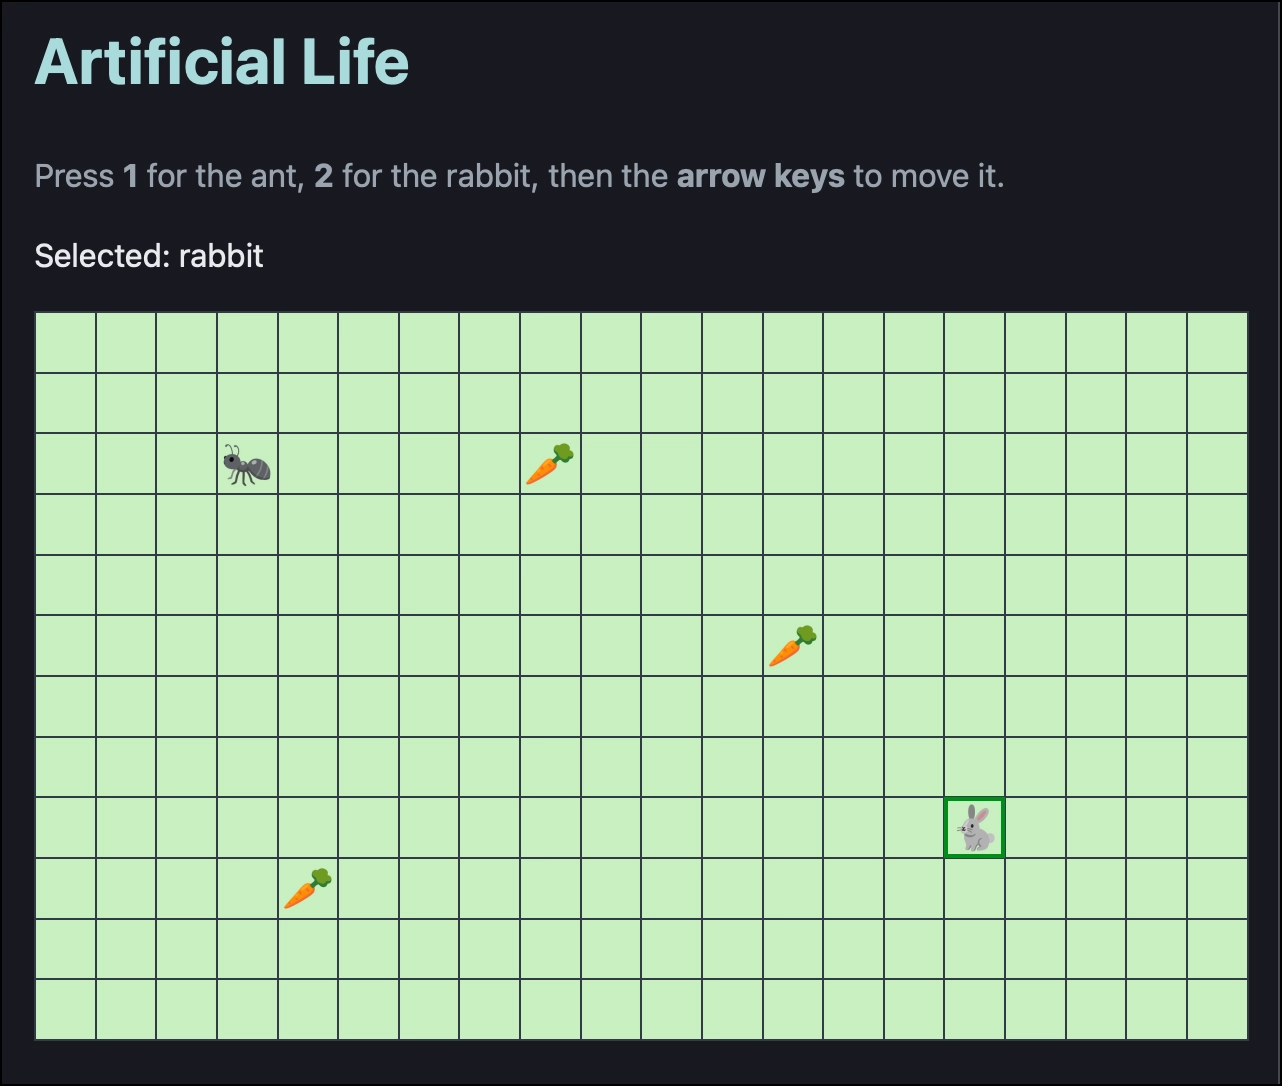
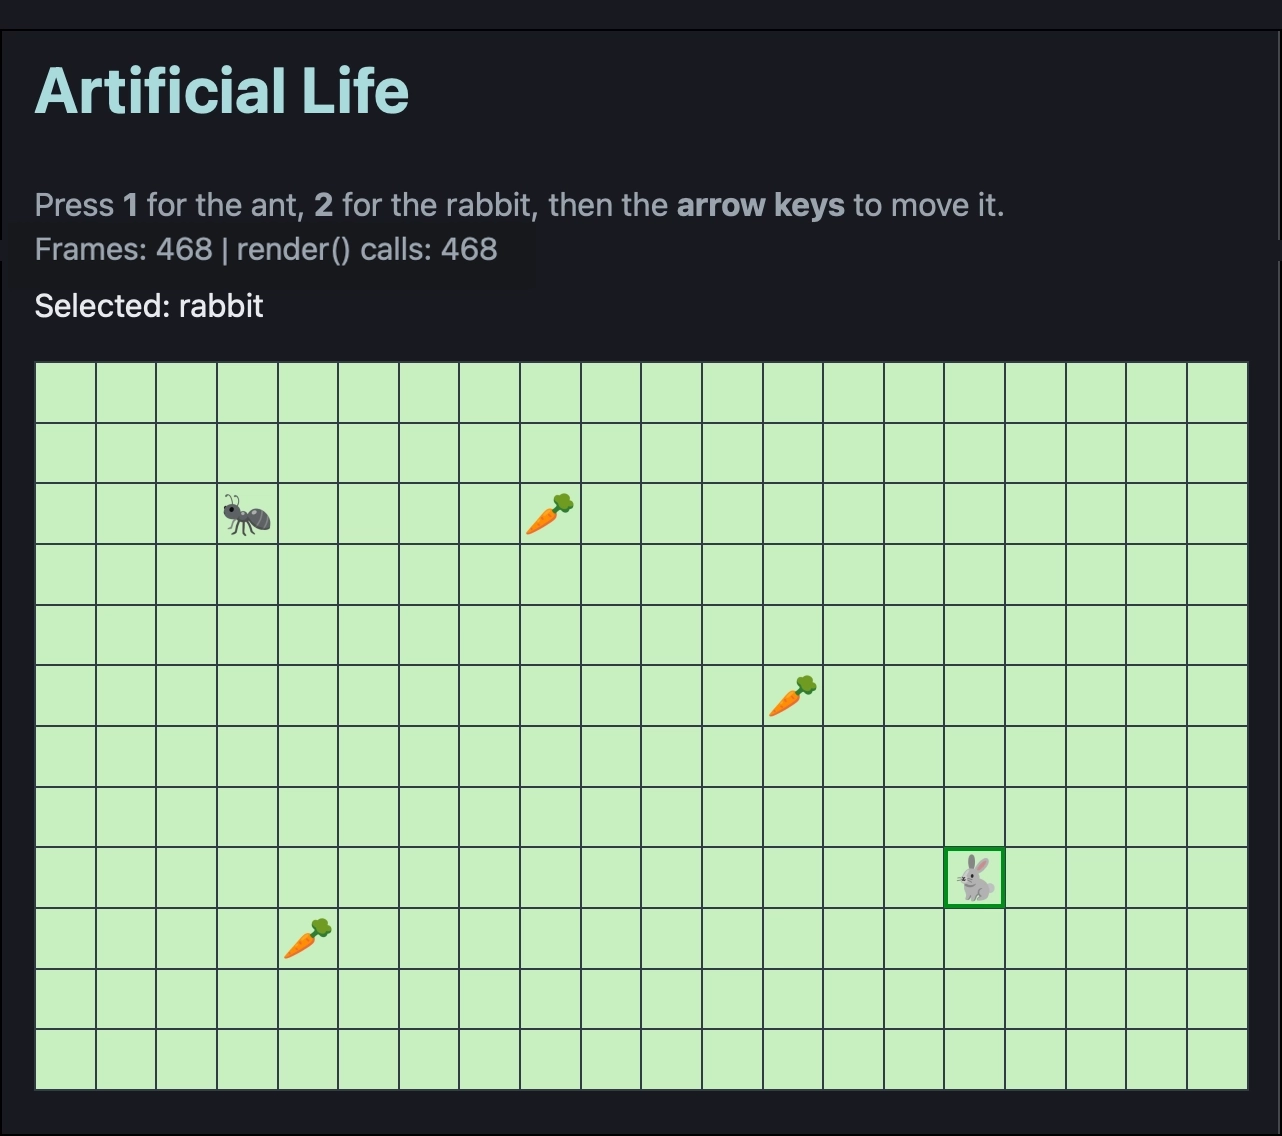
Make access modifiers explicit on all properties and methods
Every class property is now public or private, with readonly where it
is only set once, and every method is marked public, so students see
each access choice rather than TypeScript's implicit default.

The class diagram drops the composition/aggregation diamonds and shows
Display's fields as private. The README screenshot is retaken.

diff --git a/src/World.ts b/src/World.ts
@@ -8,7 +8,7 @@ export const WIDTH = 20;
 export const HEIGHT = 12;
 
 export class World {
-  grid: (Creature | Food | null)[][];
+  public readonly grid: (Creature | Food | null)[][];
 
   constructor() {
     this.grid = [];
@@ -22,17 +22,17 @@ export class World {
   }
 
   /** Returns what is in a square (null if it is empty). */
-  getSquare(row: number, col: number): Creature | Food | null {
+  public getSquare(row: number, col: number): Creature | Food | null {
     return this.grid[row][col];
   }
 
   /** Puts a creature on the grid, at its own row and col. */
-  addCreature(creature: Creature): void {
+  public addCreature(creature: Creature): void {
     this.grid[creature.row][creature.col] = creature;
   }
 
   /** Puts some food in a square. */
-  addFood(food: Food, row: number, col: number): void {
+  public addFood(food: Food, row: number, col: number): void {
     this.grid[row][col] = food;
   }
 
@@ -40,7 +40,7 @@ export class World {
    * Moves a creature one step (dRow, dCol). It stays where it is if that would take it off the
    * grid, or into another creature. If there is food there, it eats it.
    */
-  moveCreature(creature: Creature, dRow: number, dCol: number): void {
+  public moveCreature(creature: Creature, dRow: number, dCol: number): void {
     const newRow = creature.row + dRow;
     const newCol = creature.col + dCol;
 

diff --git a/src/Display.ts b/src/Display.ts
@@ -6,11 +6,11 @@ import { Food } from "./Food.ts";
 import { Game } from "./Game.ts";
 
 export class Display {
-  game: Game;
-  table: HTMLTableElement | null;
-  status: HTMLParagraphElement | null;
-  counters: HTMLParagraphElement | null;
-  renderCount = 0; // how many times render() has been called
+  private readonly game: Game;
+  private readonly table: HTMLTableElement | null;
+  private readonly status: HTMLParagraphElement | null;
+  private readonly counters: HTMLParagraphElement | null;
+  private renderCount = 0; // how many times render() has been called
 
   constructor(game: Game) {
     this.game = game;
@@ -20,13 +20,13 @@ export class Display {
   }
 
   /** Shows the frame count and the render() count. Called every frame, so it is kept cheap. */
-  showCounters(frameCount: number): void {
+  public showCounters(frameCount: number): void {
     if (!this.counters) return;
     this.counters.textContent = `Frames: ${frameCount} | render() calls: ${this.renderCount}`;
   }
 
   /** Redraws the grid and the status line from the current state of the game. */
-  render(): void {
+  public render(): void {
     this.renderCount++;
     if (!this.table || !this.status) return;
 

diff --git a/src/Game.ts b/src/Game.ts
@@ -6,10 +6,10 @@ import { Food } from "./Food.ts";
 import { World } from "./World.ts";
 
 export class Game {
-  world: World;
-  ant: Creature;
-  rabbit: Creature;
-  selected: Creature;
+  public readonly world: World;
+  public readonly ant: Creature;
+  public readonly rabbit: Creature;
+  public selected: Creature;
 
   constructor() {
     this.world = new World();
@@ -27,7 +27,7 @@ export class Game {
   }
 
   /** Handles one key press, e.g. "1", "2", "ArrowUp". */
-  handleKey(key: string): void {
+  public handleKey(key: string): void {
     if (key === "1") {
       this.selected = this.ant;
     } else if (key === "2") {

diff --git a/src/Creature.ts b/src/Creature.ts
@@ -1,10 +1,10 @@
 // A creature that lives on the grid. It knows its own name, picture, and where it is.
 
 export class Creature {
-  name: string;
-  image: string;
-  row: number;
-  col: number;
+  public readonly name: string;
+  public readonly image: string;
+  public row: number;
+  public col: number;
 
   constructor(name: string, image: string, row: number, col: number) {
     this.name = name;

diff --git a/src/Food.ts b/src/Food.ts
@@ -1,7 +1,7 @@
 // Something a creature can eat. It just sits in one square until it is eaten.
 
 export class Food {
-  image: string;
+  public readonly image: string;
 
   constructor(image: string) {
     this.image = image;
